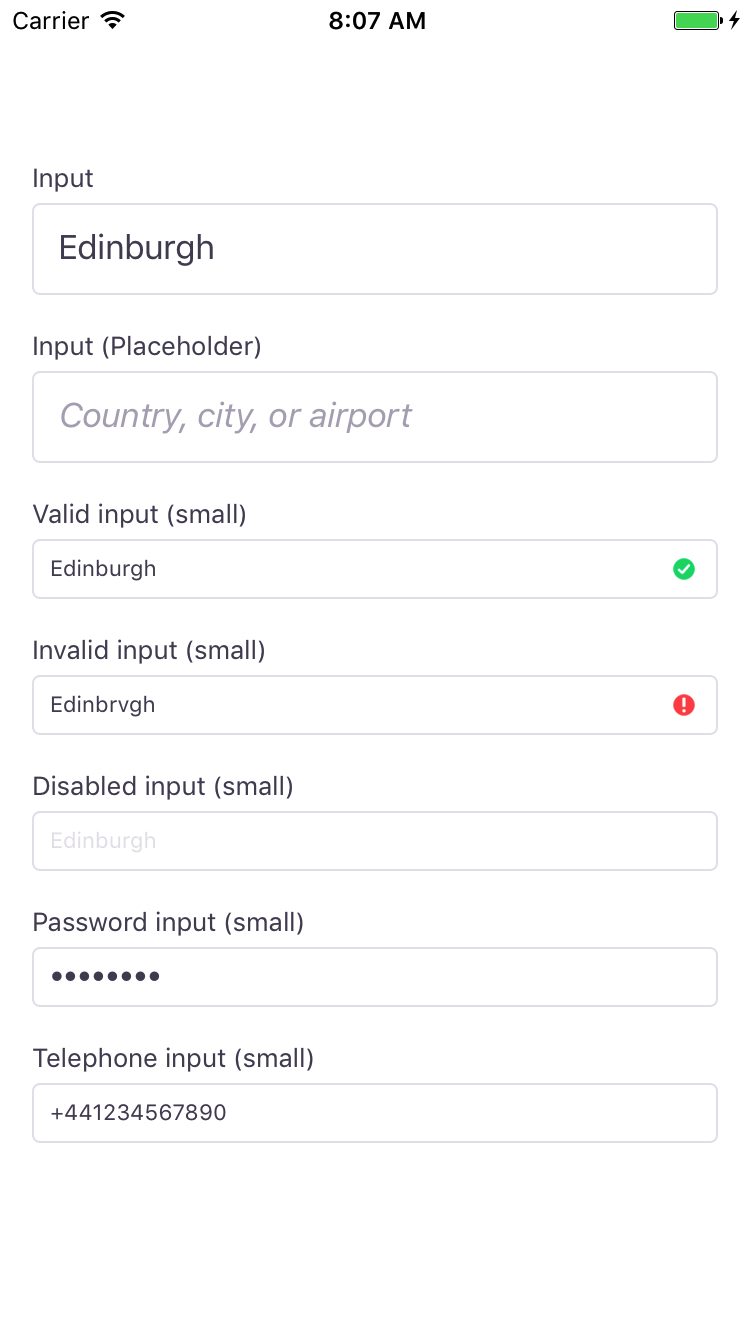
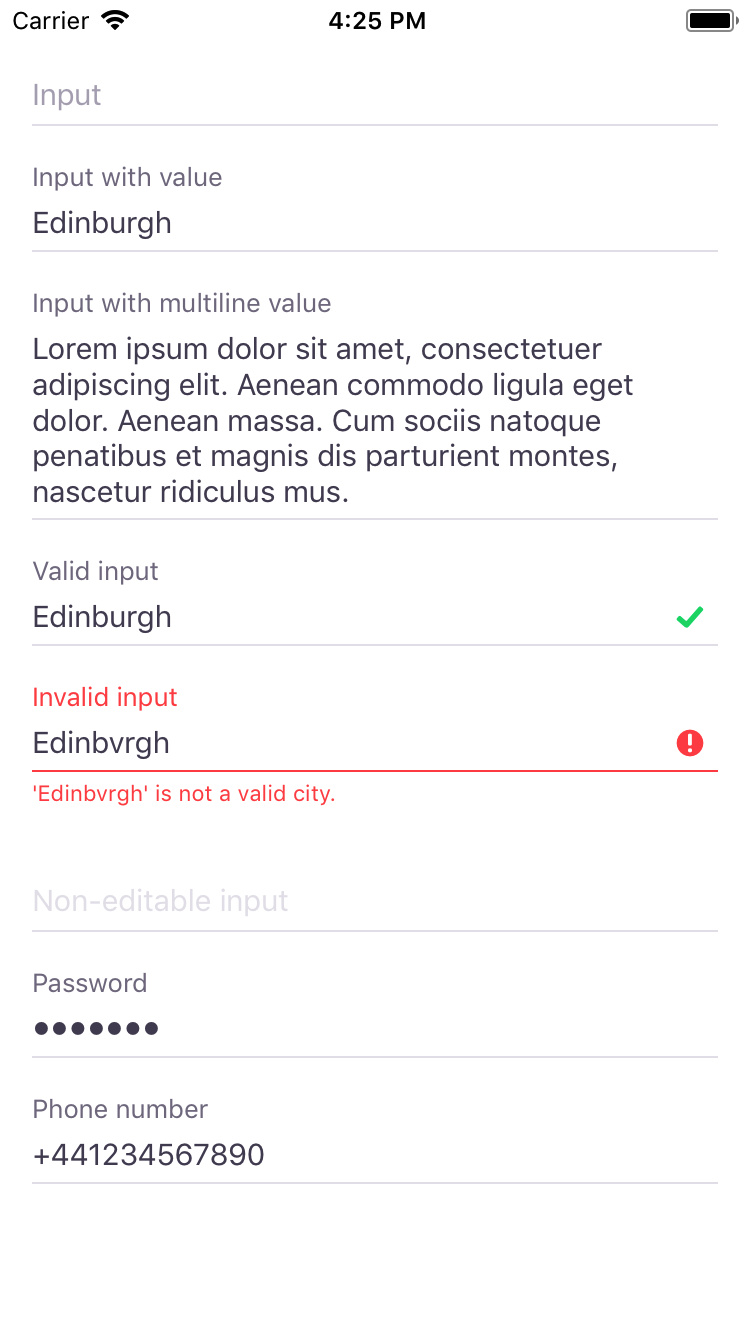
[BPK-1108] Updated docs

diff --git a/packages/bpk-docs/src/pages/NativeTextInputPage/NativeTextInputPage.js b/packages/bpk-docs/src/pages/NativeTextInputPage/NativeTextInputPage.js
@@ -20,10 +20,10 @@ import React from 'react';
 import BpkLink from 'bpk-component-link';
 import readme from 'react-native-bpk-component-text-input/readme.md';
 import iosScreenshot from 'react-native-bpk-component-text-input/screenshots/ios/text-inputs.png';
+import androidScreenshot from 'react-native-bpk-component-text-input/screenshots/android/text-inputs.png';
 
 import Paragraph from './../../components/Paragraph';
 import DocsPageBuilder from './../../components/DocsPageBuilder';
-import androidEmpty from './../../static/android_empty.svg';
 
 const reactNativeUrl = 'https://facebook.github.io/react-native/docs/textinput.html';
 
@@ -37,15 +37,15 @@ const components = [
         width: 750,
         height: 1334,
         src: `/${iosScreenshot}`,
-        altText: 'iOS Default Text Input Component',
+        altText: 'iOS Text Input Component',
         subText: '(iPhone 8 Simulator)',
       },
       {
         title: 'Android',
         width: 1080,
         height: 1920,
-        src: `/${androidEmpty}`,
-        altText: 'Android Default Text Input Component',
+        src: `/${androidScreenshot}`,
+        altText: 'Android Text Input Component',
         subText: '(Google Pixel Emulator)',
       },
     ],

diff --git a/native/packages/react-native-bpk-component-text-input/readme.md b/native/packages/react-native-bpk-component-text-input/readme.md
@@ -33,47 +33,41 @@ export default class App extends Component {
       <View style={styles.container}>
         <BpkTextInput
           style={styles.input}
-          placeholder="Country, city, or airport"
-          value="Edinburgh"
-        />
-        <BpkTextInput
-          style={styles.input}
-          placeholder="Country, city, or airport"
           value=""
         />
         <BpkTextInput
           style={styles.input}
-          small
-          placeholder="Country, city, or airport"
+          value="Edinburgh"
+        />
+        <BpkTextInput
+          style={styles.input}
+          value="Edinburgh is the capital of Scotland. Come for the castle, stay for the penguin parade at the zoo."
+          multiline
+        />
+        <BpkTextInput
+          style={styles.input}
           value="Edinburgh"
           valid
         />
         <BpkTextInput
           style={styles.input}
-          small
-          placeholder="Country, city, or airport"
           value="Edinbrvgh"
           valid={false}
+          validationMessage="Edinbvrgh is not a valid city."
         />
         <BpkTextInput
           style={styles.input}
-          small
-          disabled
-          placeholder="Country, city, or airport"
+          editable={false}
           value="Edinburgh"
         />
         <BpkTextInput
           style={styles.input}
-          small
           secureTextEntry
-          placeholder="password"
           value="password"
         />
         <BpkTextInput
           style={styles.input}
-          small
           keyboardType="phone-pad"
-          placeholder="Phone number"
           value="+441234567890"
         />
       </View>
@@ -84,11 +78,13 @@ export default class App extends Component {
 
 ## Props
 
-| Property    | PropType  | Required | Default Value |
-| ----------- | --------- | -------- | ------------- |
-| value       | string    | true     | -             |
-| disabled    | bool      | false    | false         |
-| small       | bool      | false    | false         |
-| style       | style     | false    | null          |
-| valid       | bool      | false    | null          |
-| inputRef    | func      | false    | null          |
+| Property                    | PropType                                                    | Required | Default Value |
+| --------------------------- | ----------------------------------------------------------- | -------- | ------------- |
+| label                       | string                                                      | true     | -             |
+| value                       | string                                                      | true     | -             |
+| clearButtonMode (iOS only)  | oneOf('never', 'while-editing', 'unless-editing', 'always') | false    | while-editing |
+| editable                    | bool                                                        | false    | true          |
+| inputRef                    | func                                                        | false    | null          |
+| valid                       | oneOf(true, false, null)                                    | false    | null          |
+| validationMessage           | string                                                      | false    | null          |
+| style                       | style                                                       | false    | null          |
